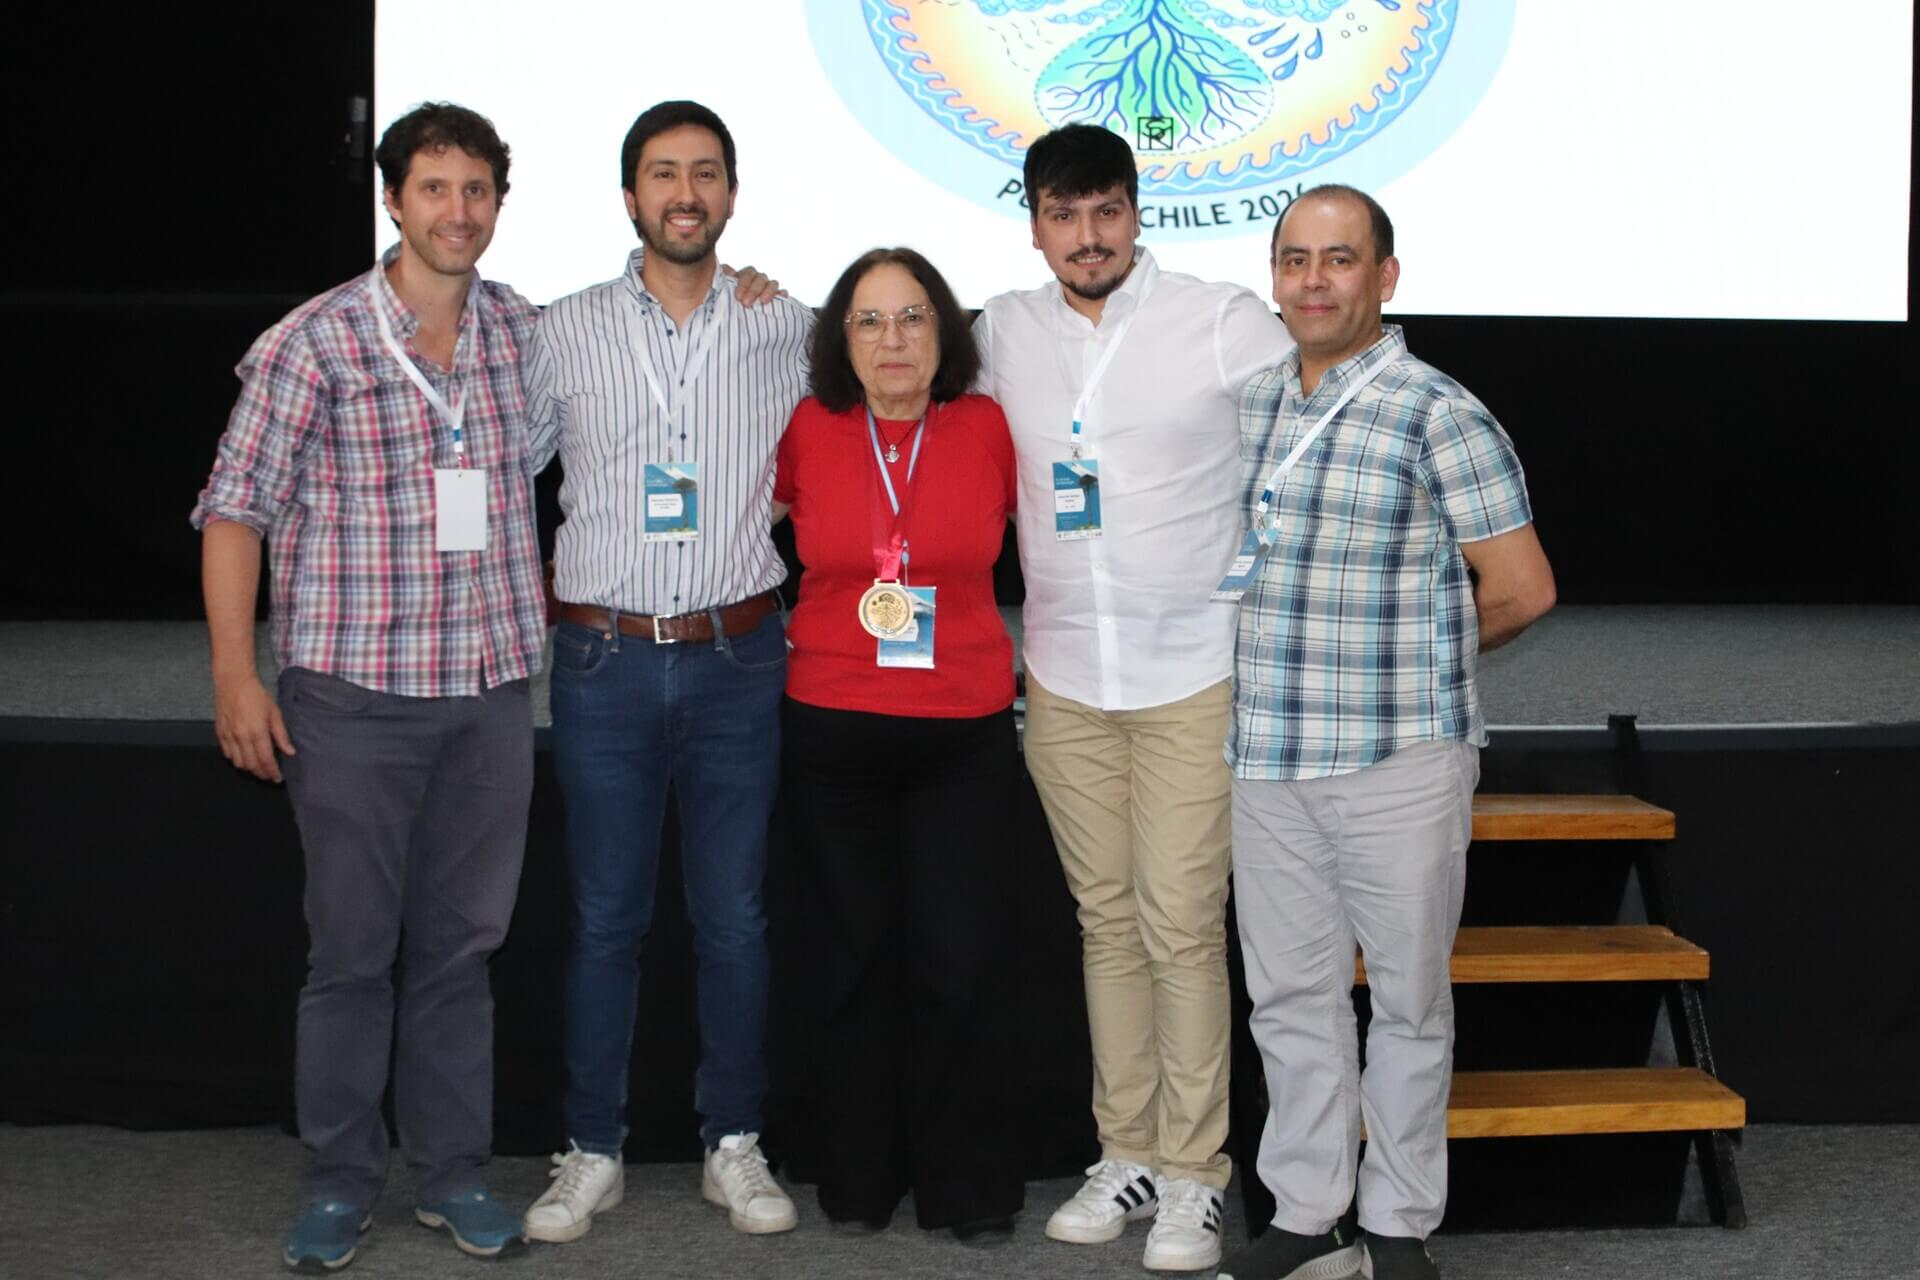
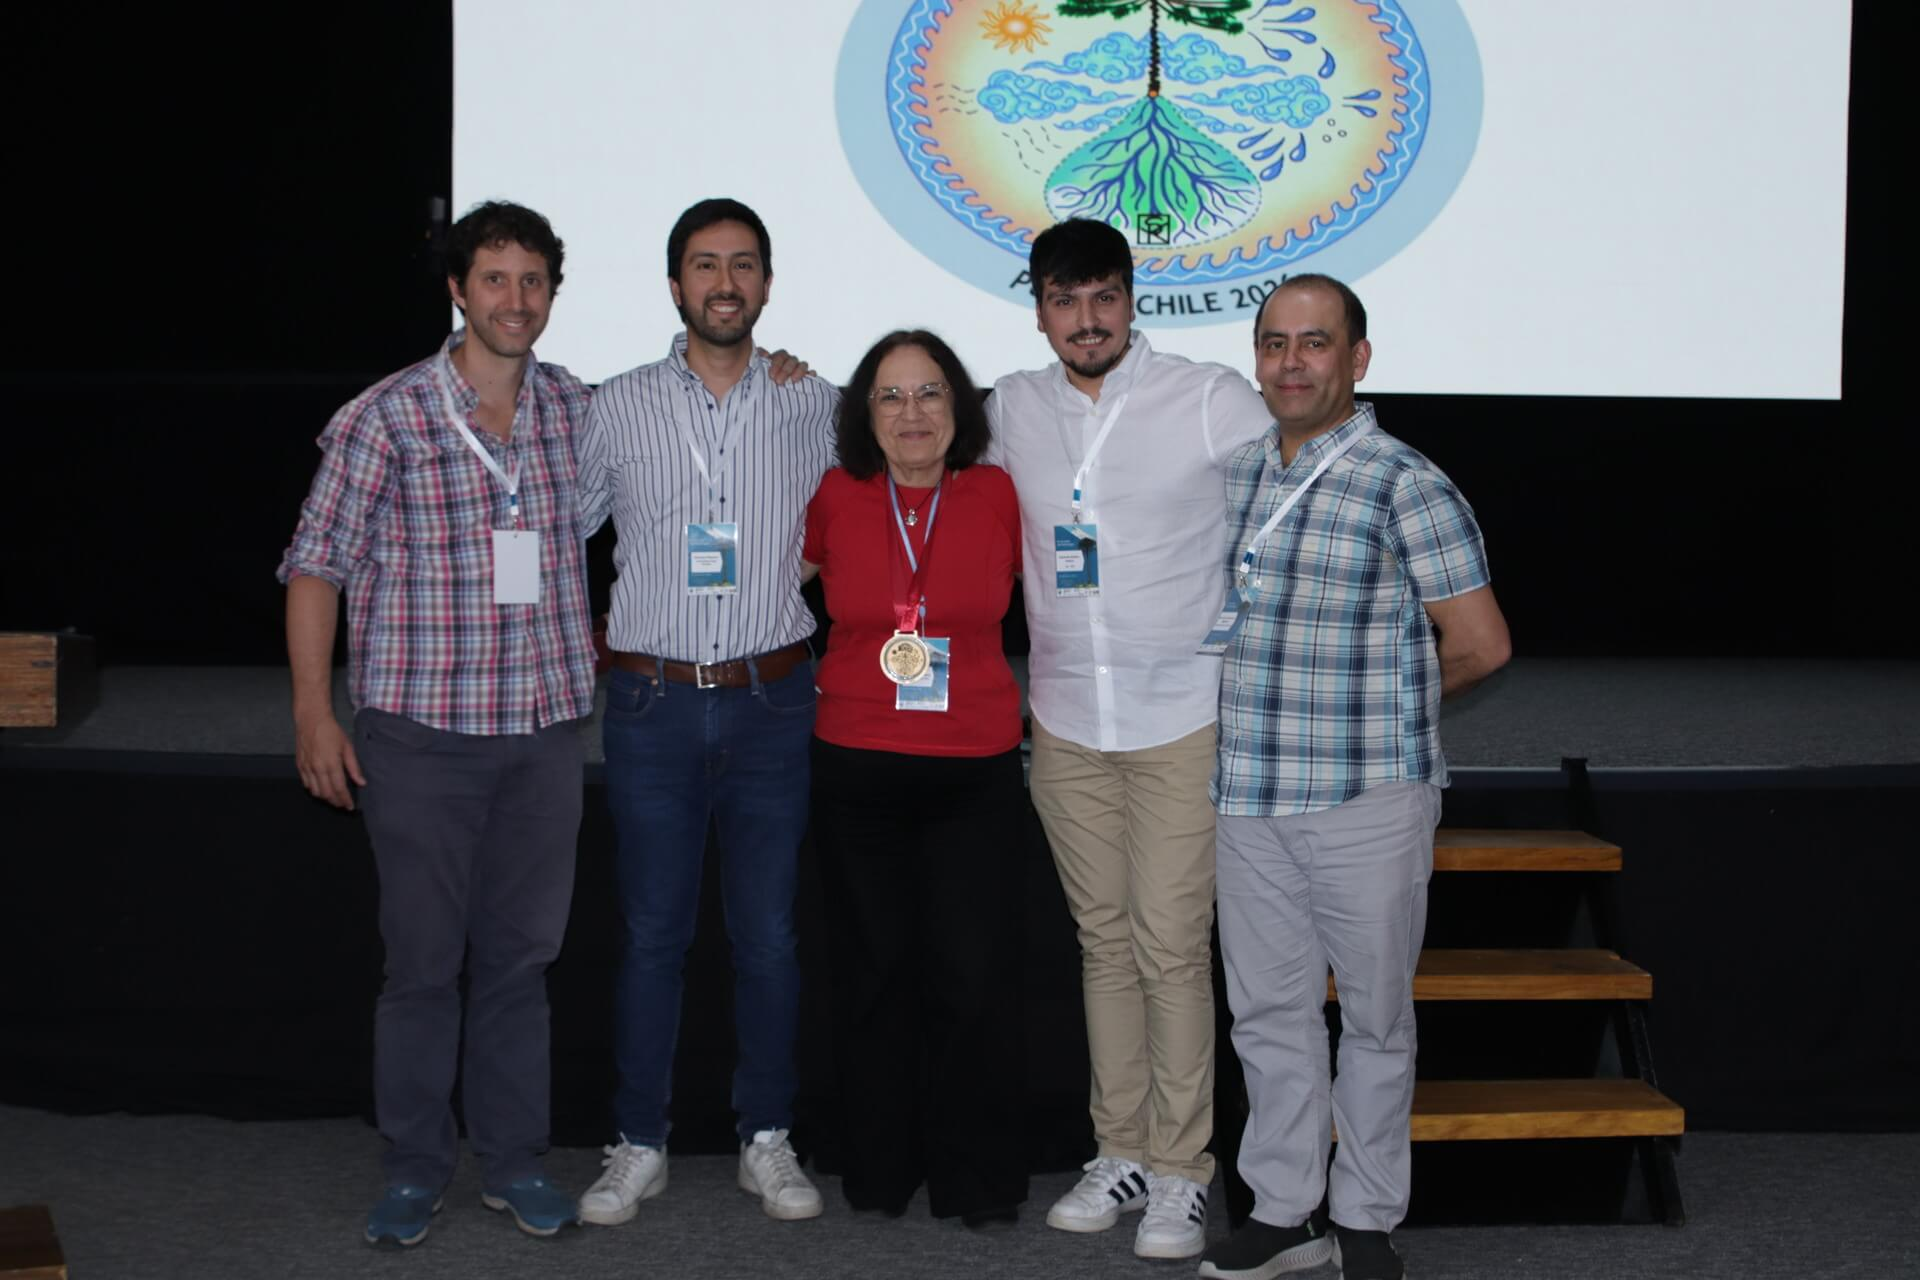
modify pictures

diff --git a/content/resumen/index.md b/content/resumen/index.md
@@ -124,6 +124,12 @@ El programa científico incluyó sesiones temáticas sobre eventos extremos, hid
 
 Como parte fundamental de la Jornada, se desarrollaron **tres cursos especializados**, orientados a fortalecer capacidades técnicas y profesionales en distintas áreas de la gestión hídrica. El **Curso 1**, titulado *GIRH, Resiliencia y Seguridad Hídrica: Cómo reconciliar conceptos en la gestión real de las cuencas*, fue impartido por la **Dra. Pilar Barría**, académica de la Universidad de Chile.
 
+<p align="center">
+ <img class="event-highlights-section__logo2" src="Dra_Pilar_Barria.jpg" loading="lazy"/>
+</p>
+
+**Figura 5**. Dra. Pilar Barría impartiendo el Curso 1.
+
 El **Curso 2a**, *Excelencia en medición hidrométrica: de la teoría a la práctica con baja incertidumbre*, estuvo a cargo de **Jorge Labra**, representante de **AQUAFLOW**, mientras que el **Curso 2b**, enfocado en la *estimación de recursos hídricos en proyectos de litio*, fue dictado por **Diego Ojeda**, de **Montgomery & Associates Chile**. Estas instancias formativas tuvieron una alta convocatoria y destacaron por su enfoque aplicado y su conexión directa con problemáticas reales del sector.
 
 <p align="center">
@@ -131,15 +137,31 @@ El **Curso 2a**, *Excelencia en medición hidrométrica: de la teoría a la prá
  <img class="event-highlights-section__logo2" src="Diego_Ojeda_Montgomery.jpg" loading="lazy"/>
 </p>
 
-**Figura 5**. Ingeniero Jorge Labra (imagen superior) e Ingeniero Diego Ojeda (imagen inferior) presentando sus cursos.
+**Figura 6**. Ingeniero Jorge Labra (imagen superior) e Ingeniero Diego Ojeda (imagen inferior) presentando sus cursos.
 
-En esta Jornada de Hidrología se instituyó la medalla "Premio Chileno de Hidrología", orientada a reconocer la trayectoria profesional y el aporte a la comunidad hidrológica nacional. En su primera versión, la medalla fue otorgada a la profesora Ximena Vargas Mesa (Universidad de Chile), destacada académica que, en palabras de sus propios alumnos y colaboradores, ha dejado una huella imborrable en la historia de la hidrología de Chile y en los profesionales que ha formado.
+Como parte de las actividades de reflexión colectiva, se desarrolló una **discusión participativa titulada "¿Existe (o no) la necesidad de crear una Asociación Chilena de Hidrología?"**, dirigida por el Dr. Francisco Salinas (Universidad Alberto Hurtado) y el Dr. (c) Eduardo Muñoz. Esta instancia tuvo como objetivo abrir un espacio de diálogo informado respecto a la eventual institucionalización de una asociación nacional que represente a la comunidad hidrológica del país. Para ello, las y los participantes fueron organizados en grupos según su ámbito de pertenencia: estudiantes, sector público, sector privado y academia, con el fin de recoger distintas miradas, necesidades y expectativas en torno al rol, alcances y pertinencia de una organización de este tipo.
+
+<p align="center">
+ <img class="event-highlights-section__logo2" src="Dr_Francisco_Salinas.jpg" loading="lazy"/>
+</p>
+
+**Figura 7**. Dr. Francisco Salinas liderando la discusión participativa.
+
+En esta Jornada de Hidrología se instituyó la **medalla "Premio Chileno de Hidrología"**, orientada a reconocer la trayectoria profesional y el aporte a la comunidad hidrológica nacional. En su primera versión, la medalla fue otorgada a la profesora Ximena Vargas Mesa (Universidad de Chile), destacada académica que, en palabras de sus propios alumnos y colaboradores, ha dejado una huella imborrable en la historia de la hidrología de Chile y en los profesionales que ha formado.
 
 <p align="center">
  <img class="event-highlights-section__logo2" src="profesora_Ximena_Vargas_recibiendo_medalla.jpg" loading="lazy"/>
 </p>
 
-**Figura 6**. Profesora Ximena Vargas recibiendo la medalla "Premio Chileno de Hidrología".
+**Figura 8**. Profesora Ximena Vargas recibiendo la medalla "Premio Chileno de Hidrología".
+
+En coherencia con este espíritu de reconocimiento y legado, la medalla Premio Chileno de Hidrología fue diseñada por Stephanie Sería, hidróloga en EFE. La ilustración representa una cuenca hidrográfica como un sistema dinámico e interconectado, parte de un todo que, en la búsqueda de equilibrio, converge sus aguas hacia un punto que nutre, sostiene y posibilita la vida en todas sus formas. Como resultado, el nacimiento de una araucaria, el cual simboliza la dependencia mutua entre agua, territorio y sus comunidades.
+
+<p align="center">
+ <img class="event-highlights-section__logo2" src="ilustracion_medalla.jpg" loading="lazy"/>
+</p>
+
+**Figura 9**. Ilustración de la medalla "Premio Chileno de Hidrología".
 
 
 Uno de los momentos más valorados por las y los participantes fue la concurrida salida a terreno, orientada a conocer en detalle el entorno natural y los puntos de monitoreo que sustentan el estudio hidrológico en la cuenca del **Río Trancura antes de Llafenco**. La actividad comenzó en el Campus Pucón de la UFRO y se trasladó hasta **PuAm Ecolodge**, donde se visitaron una estación meteorológica y una estación de monitoreo de humedad del suelo.
@@ -150,7 +172,7 @@ Uno de los momentos más valorados por las y los participantes fue la concurrida
  <img class="event-highlights-section__logo2" src="estacion_meteorologica_PuAmEcolodge.jpg" loading="lazy"/>
 </p>
 
-**Figura 7**. Participantes de la salida a terreno en PuAm Ecolodge.
+**Figura 10**. Participantes de la salida a terreno en PuAm Ecolodge.
 
 
 El recorrido incluyó un trekking por vegetación nativa, permitiendo a las y los asistentes observar directamente las condiciones locales que influyen en los procesos hidrológicos. Durante la salida se realizaron además mediciones simples en terreno, como ensayos de infiltración, con el objetivo de ilustrar cómo se manifiesta el comportamiento del agua a escala local y su relación con la modelación hidrológica.
